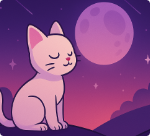
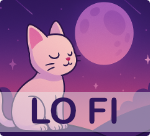
small changes

Changed region(s): [[0.0, 0.6765, 1.0, 0.9706]]

diff --git a/src/scenes/Map.ts b/src/scenes/Map.ts
@@ -346,11 +346,13 @@ export default class Map extends Phaser.Scene {
 		prevBtn.visible = false;
 
 		// VolumenSizeBar
-		const volumenSizeBar = this.add.image(738, 339, "SongTimeline");
+		const volumenSizeBar = this.add.image(738, 348, "SongTimeline");
 		volumenSizeBar.setOrigin(0, 0.5);
 
 		// SongVolumenHandle
-		const songVolumenHandle = this.add.image(742, 339, "SongStatusHandle");
+		const songVolumenHandle = this.add.image(742, 348, "SongStatusHandle");
+		songVolumenHandle.scaleX = 2;
+		songVolumenHandle.scaleY = 2;
 
 		// songAlbum
 		const songAlbum = this.add.image(821, 216, "song1Almbum");
@@ -906,15 +908,30 @@ private loadRadio(name: string) {
 		"https://fr1.api.radio-browser.info"
 	];
 
-	const tryMirror = (idx: number) => {
+	const tag = this.getPresetTag(name);
+
+	const buildUrl = (mode: "tag" | "name", base: string) => {
+		const common = "order=votes&reverse=true&hidebroken=true";
+		if (mode === "tag" && tag) {
+			return `${base}/json/stations/bytag/${encodeURIComponent(tag)}?${common}&limit=20`;
+		}
+		return `${base}/json/stations/search?name=${encodeURIComponent(name)}&${common}&limit=10`;
+	};
+
+	const tryMirror = (idx: number, mode: "tag" | "name") => {
 		if (idx >= mirrors.length) {
+			if (mode === "tag") {
+				this.logRadio(`Tag search failed for ${name}, falling back to name search`);
+				tryMirror(0, "name");
+				return;
+			}
 			this.fallbackToLocalTrack(`All mirrors failed for ${name}`);
 			return;
 		}
 
 		const base = mirrors[idx];
-		const searchUrl = `${base}/json/stations/search?name=${encodeURIComponent(name)}&limit=1`;
-		this.logRadio(`Trying mirror ${base} ...`);
+		const searchUrl = buildUrl(mode, base);
+		this.logRadio(`Trying ${mode === "tag" ? "tag" : "name"} lookup on ${base} ...`);
 
 		fetch(searchUrl)
 			.then(r => {
@@ -924,10 +941,10 @@ private loadRadio(name: string) {
 				return r.json();
 			})
 			.then(list => {
-				if (Array.isArray(list) && list.length) {
-					const station = list[0];
+				const station = this.selectStationFromList(list, { tag, name });
+				if (station) {
 					this.currentStationUrl = station.url_resolved;
-					this.logRadio(`Station loaded from ${base}: ${station.name}`);
+					this.logRadio(`Station loaded from ${base}: ${station.name || "Unknown"}`);
 					if (!this.radioAudio || !this.currentStationUrl) return;
 					if (this.radioAudio.src !== this.currentStationUrl) {
 						this.radioAudio.src = this.currentStationUrl;
@@ -940,17 +957,70 @@ private loadRadio(name: string) {
 					const playPromise = this.radioAudio.play();
 					if (playPromise) playPromise.catch(e => this.logRadio(`Autoplay blocked: ${e?.message || e}`));
 				} else {
-					this.logRadio(`No station found for: ${name} on ${base}`);
-					tryMirror(idx + 1);
+					this.logRadio(`No station found for ${mode} search on ${base}`);
+					tryMirror(idx + 1, mode);
 				}
 			})
 			.catch(err => {
 				this.logRadio(`Error on ${base} for ${name}: ${err?.message || err}`);
-				tryMirror(idx + 1);
+				tryMirror(idx + 1, mode);
 			});
 	};
 
-	tryMirror(0);
+	if (tag) {
+		tryMirror(0, "tag");
+	} else {
+		tryMirror(0, "name");
+	}
+}
+
+private getPresetTag(name: string): string | undefined {
+	if (!name) return undefined;
+	const normalized = name.trim().toLowerCase();
+	if (!normalized) return undefined;
+	const map: Record<string, string> = {
+		lofi: "lofi",
+		synthwave: "synthwave",
+		chill: "chill",
+		"lo-fi": "lofi",
+	};
+	return map[normalized] || normalized.replace(/\s+/g, "-");
+}
+
+private selectStationFromList(list: any, opts: { tag?: string; name: string }): any | undefined {
+	if (!Array.isArray(list)) return undefined;
+	const tagLower = opts.tag?.toLowerCase();
+	const nameLower = opts.name.trim().toLowerCase();
+	const forbidden = ["news", "info", "information", "talk", "sports", "sport", "traffic", "weather", "finance", "politics"];
+	const goodKeywords = ["music", "beats", "radio", "chill", "synth", "lofi"];
+	const candidates = list
+		.map(station => {
+			if (!station || typeof station.url_resolved !== "string" || !station.url_resolved.length) {
+				return undefined;
+			}
+			const url = station.url_resolved.trim();
+			const tagsRaw = typeof station.tags === "string" ? station.tags : "";
+			const tags = tagsRaw.split(",").map((t: string) => t.trim().toLowerCase()).filter(Boolean);
+			const stationName = (station.name || "").toString().toLowerCase();
+			let score = 0;
+			if (tagLower && (tags.includes(tagLower) || stationName.includes(tagLower))) score += 5;
+			if (nameLower && stationName.includes(nameLower)) score += 3;
+			if (goodKeywords.some(word => tags.includes(word) || stationName.includes(word))) score += 1;
+			if (forbidden.some(word => tags.includes(word) || stationName.includes(word))) score -= 4;
+			const bitrate = Number(station.bitrate) || 0;
+			if (bitrate >= 256) score += 2;
+			else if (bitrate >= 96) score += 1;
+			const votes = Number(station.votes) || 0;
+			score += Math.min(votes, 6000) / 2000;
+			if (station.lastcheckok !== 1) score -= 3;
+			const codec = (station.codec || "").toString().toUpperCase();
+			if (["MP3", "AAC", "OGG", "OPUS"].includes(codec)) score += 1;
+			if (url.startsWith("https://")) score += 1; else score -= 0.5;
+			return { station, score };
+		})
+		.filter((entry): entry is { station: any; score: number } => !!entry)
+		.sort((a, b) => b.score - a.score);
+	return candidates[0]?.station;
 }
 
 private fallbackToLocalTrack(reason: string) {
